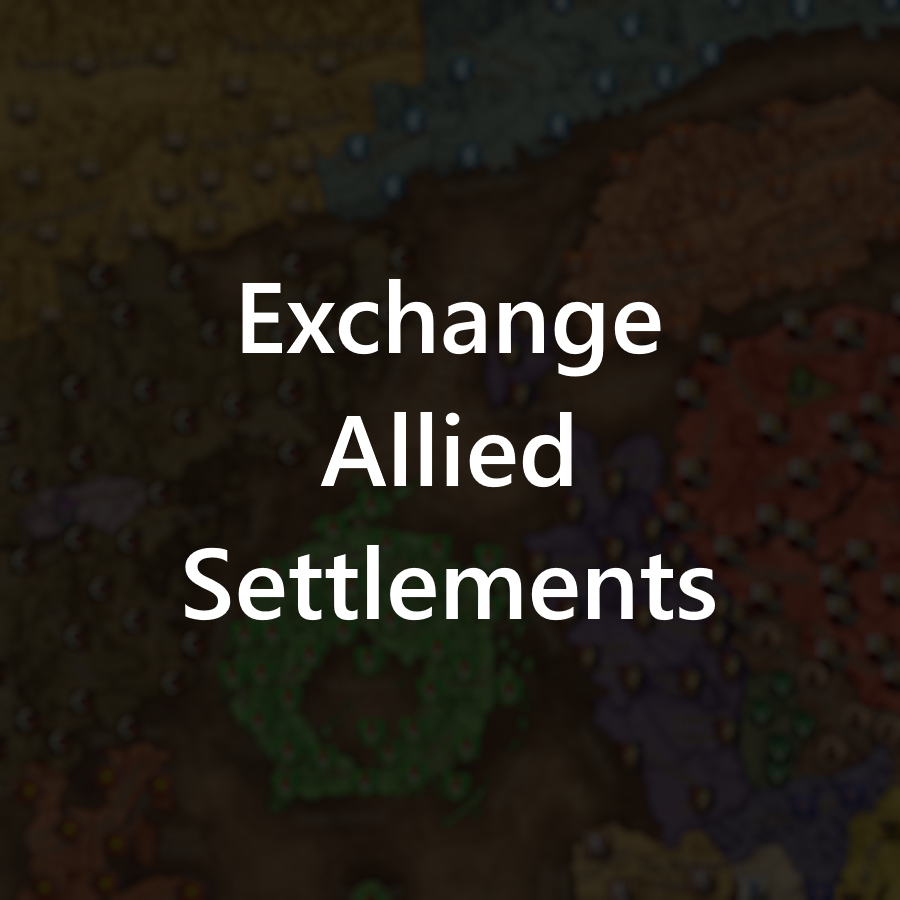
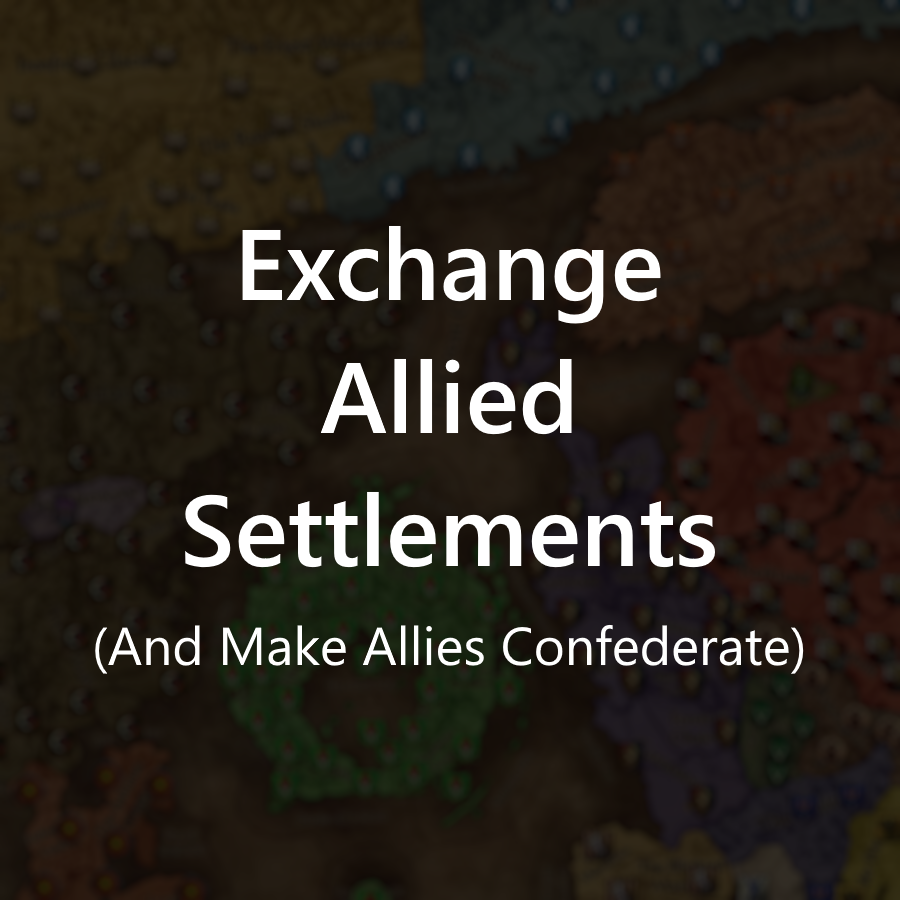
version 2.0!

Changed region(s): [[0.0933, 0.2489, 0.9022, 0.7467]]

diff --git a/README.md b/README.md
@@ -1,5 +1,5 @@
 # Exchange Allied Settlements (And Make Allies Confederate)
-This is a Total War: Warhammer 3 mod that adds in a user interface that allows the user to transfer settlements from one ally to another, or confederate two allies of the same race together. This is useful for strengthening your preferred allies, consolidating your vassals into one favored faction, or just for creating aesthetically pleasing borders between your neighbors.
+This is a Total War: Warhammer 3 mod that adds in a user interface that allows the user to transfer settlements from one ally to another, or force two allies of the same race to confederate together. This is useful for strengthening your preferred allies, consolidating your vassals into one favored faction, or just for creating aesthetically pleasing borders between your neighbors.
 
 You do this by pressing a button on the top left of the UI that leads to a menu that displays a dropdown list of your allies. You can then select any city to transfer to another ally. You can only move one city at a time with this system, and you can gift the last remaining settlement of an ally to another ally.
 
